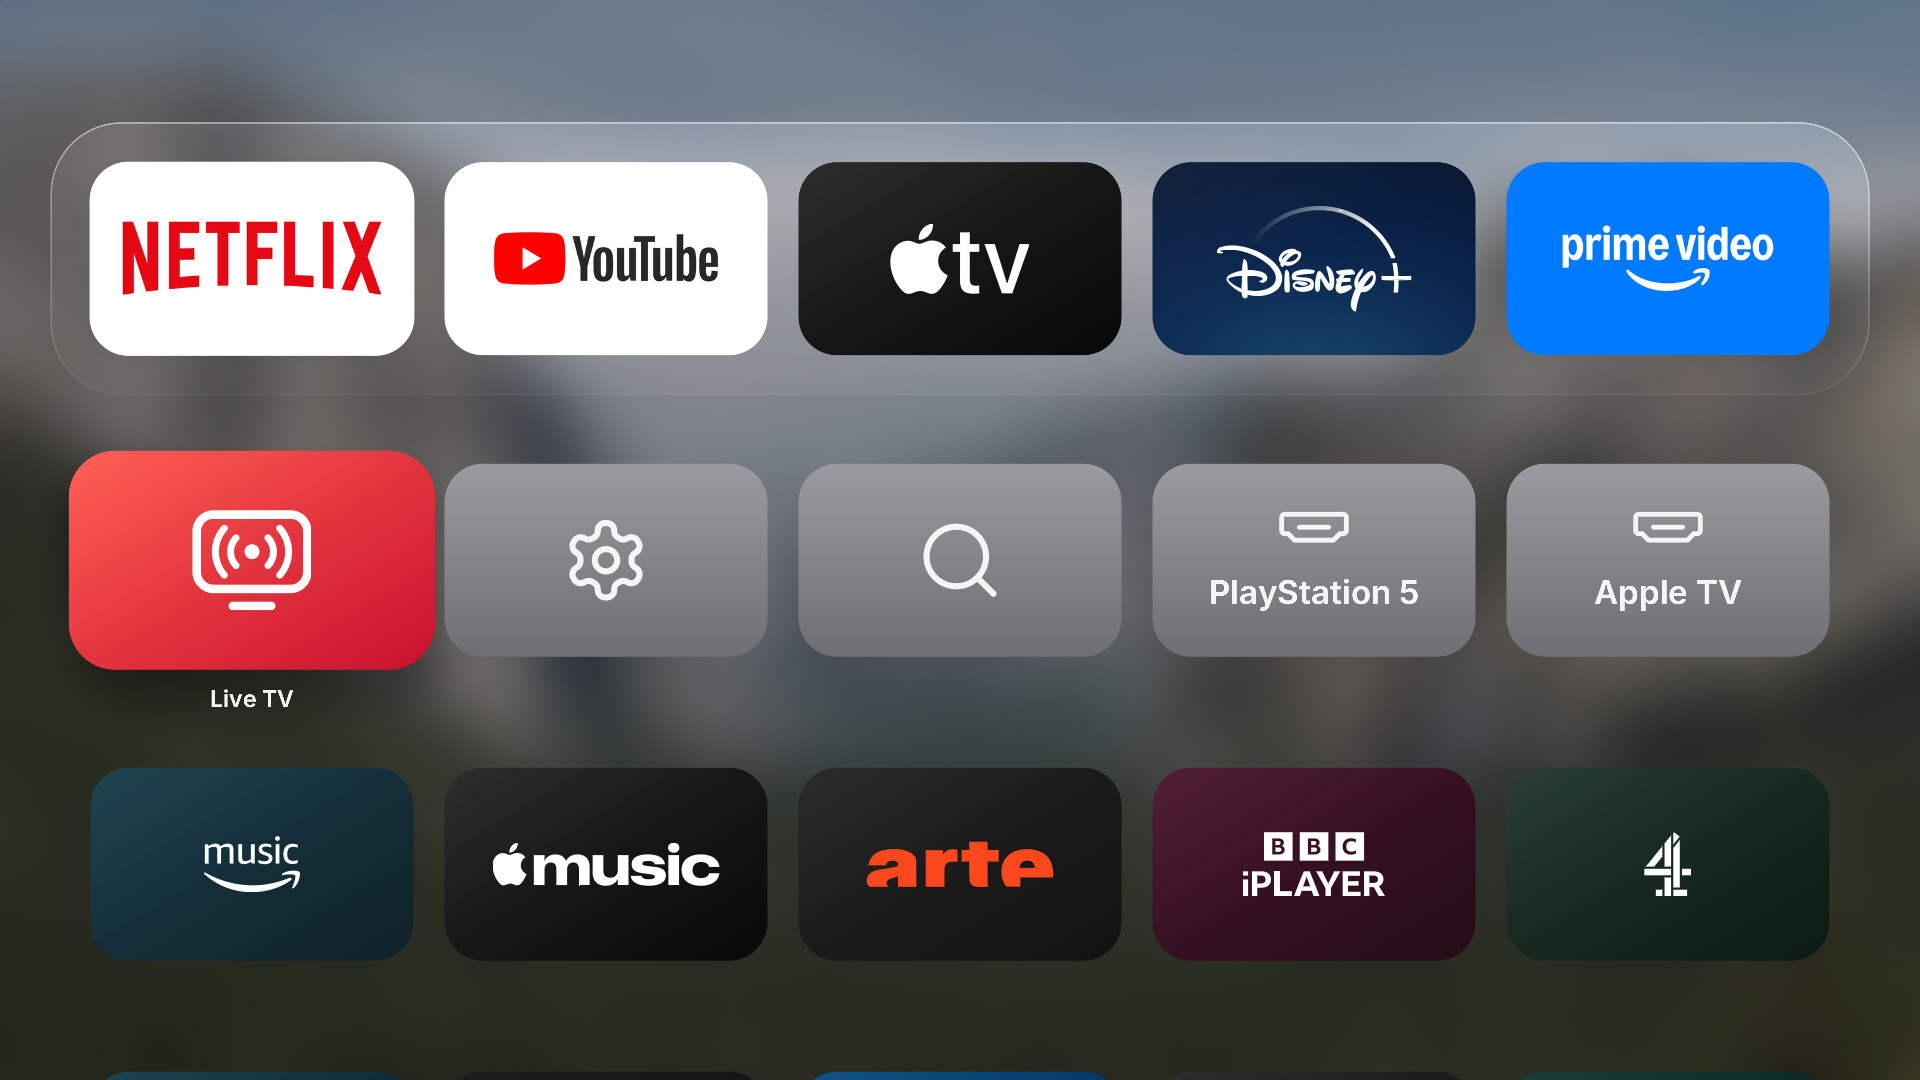
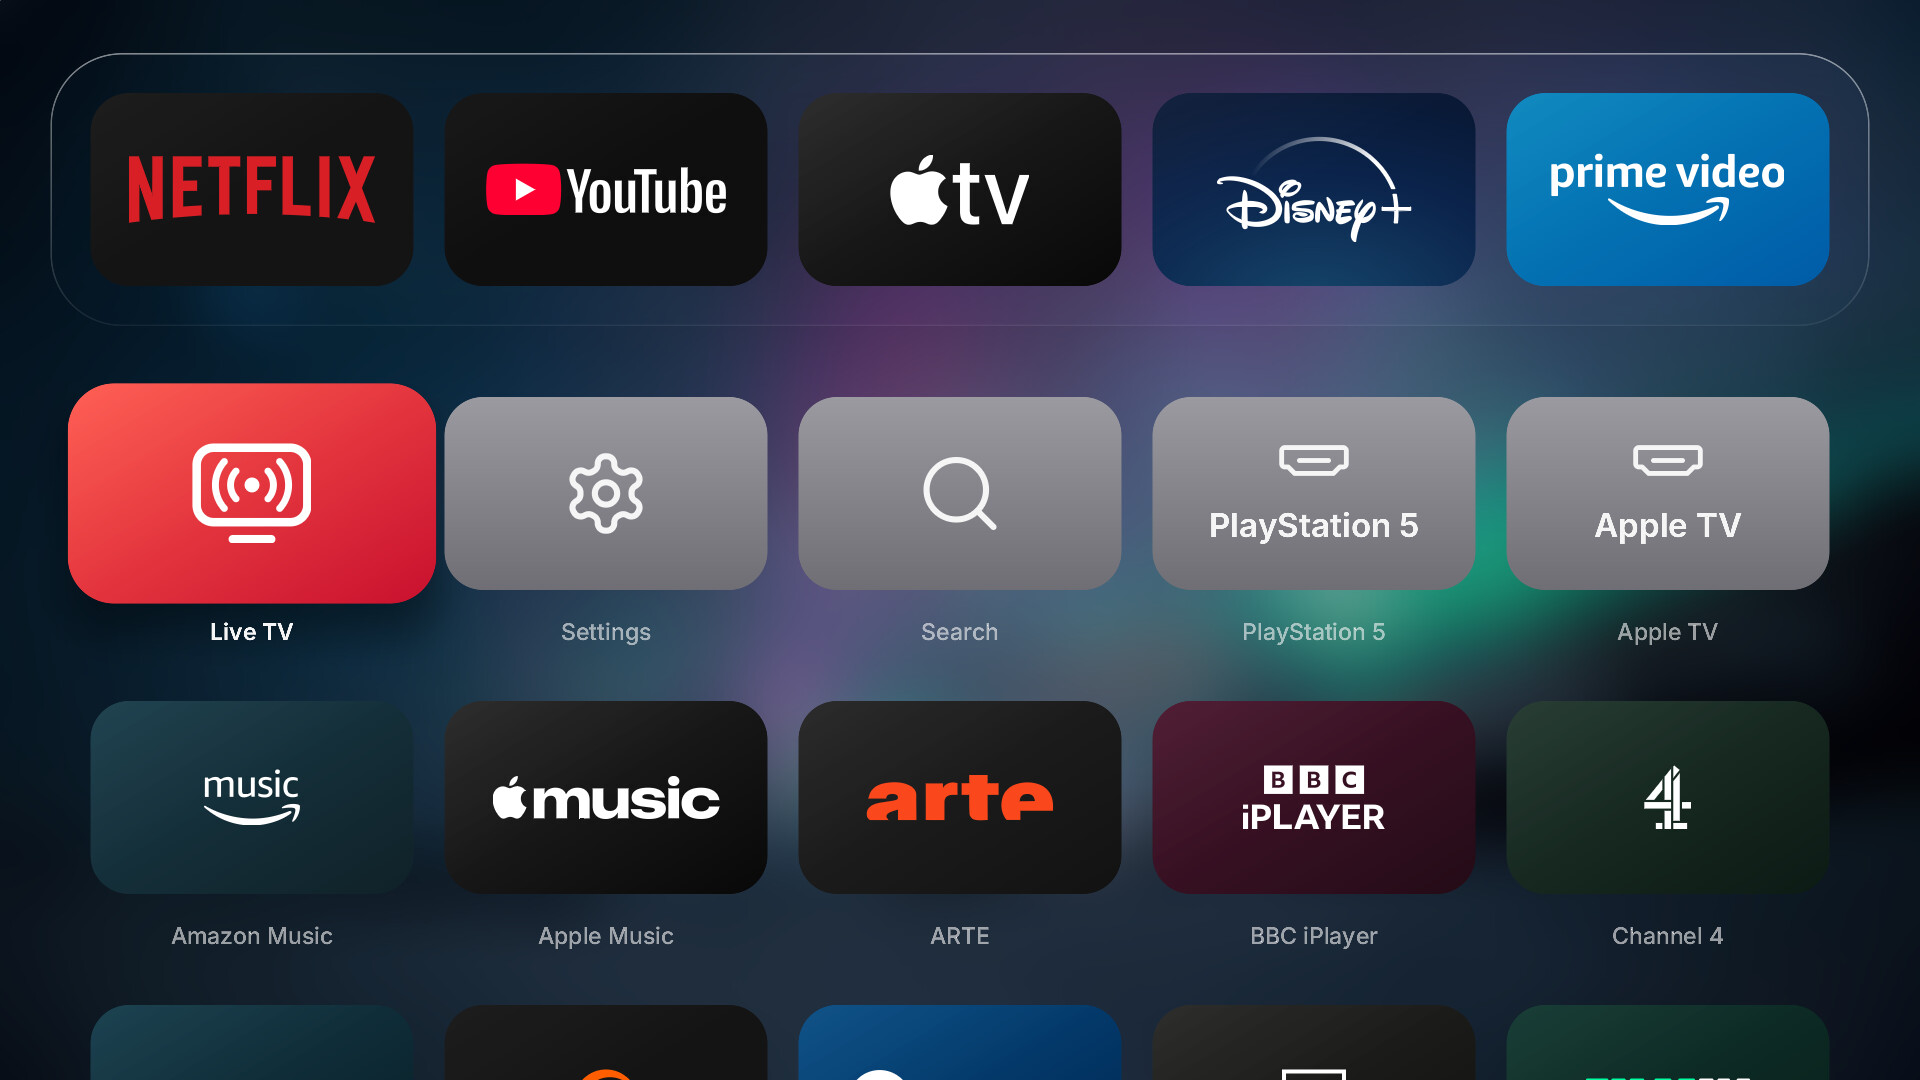
README: a tour of every screen on the northern lights, how Lounge differs, making it yours, use at your own risk

diff --git a/readme.md b/readme.md
@@ -12,16 +12,16 @@ Native, fast and quiet, so the only thing you notice is what you came to watch.
 [![webOS](https://img.shields.io/badge/LG%20webOS-7.6%20verified-1a1f45.svg)](#requirements)
 [![Rust](https://img.shields.io/badge/Rust-OpenGL%20ES-1a1f45.svg)](#how-it-works)
 
-[Features](#features) · [Install](#install) · [Make it your Home](#make-lounge-your-home) · [How it works](#how-it-works) · [Build](#build-it-yourself)
+[Features](#features) · [Tour](#a-tour) · [Why Lounge](#how-lounge-differs) · [Install](#install) · [Make it your Home](#make-lounge-your-home) · [Make it yours](#make-it-yours) · [Build](#build-it-yourself)
 
-<img src="docs/readme/home.jpg" alt="Lounge home screen: a glass dock of apps over a photo of Yosemite" width="100%">
+<img src="docs/readme/home.jpg" alt="Lounge home screen: a glass dock of apps over the northern lights" width="100%">
 
 </div>
 
 ## Features
 
-- **A real tvOS home.** A glass dock of favourites over full-screen Top Shelf art, an app grid
-  that slides up beneath it, and your HDMI inputs as tiles.
+- **A real tvOS home.** A glass dock of favourites over your wallpaper, an app grid that slides
+  up beneath it, and your HDMI inputs as tiles.
 - **Turns on into Lounge.** Power-on, the remote's Home key and backing out of an app all land on
   Lounge, with no LG Home in between.
 - **Smooth on modest hardware.** Built for a one-core TV GPU: it repaints only what changed and
@@ -29,25 +29,69 @@ Native, fast and quiet, so the only thing you notice is what you came to watch.
 - **Out of your apps' way.** Behind YouTube, Netflix or any other app it draws nothing and hands
   memory back, so the app you are watching keeps the TV to itself.
 - **Yours.** Light, Dark or Automatic appearance, nine wallpapers, a profile picture, hidden apps,
-  rearranging, and weather in the corner.
+  rearranging, and live weather in the corner.
+
+## A tour
 
 <table>
   <tr>
-    <td width="50%"><img src="docs/readme/apps.jpg" alt="App grid with Live TV, Settings, Search and HDMI inputs"></td>
-    <td width="50%"><img src="docs/readme/menu.jpg" alt="Holding OK on an app opens a glass menu to move or hide it"></td>
+    <td width="50%"><img src="docs/readme/apps.jpg" alt="The app grid with Live TV, Settings, Search and HDMI inputs"></td>
+    <td width="50%"><img src="docs/readme/switcher.jpg" alt="The app switcher: open apps as large cards"></td>
   </tr>
   <tr>
-    <td align="center"><sub>Every app and input, one press away</sub></td>
-    <td align="center"><sub>Hold OK to move or hide an app</sub></td>
+    <td align="center"><sub><b>Every app and input</b>, one press below the dock</sub></td>
+    <td align="center"><sub><b>The app switcher</b>: Back on Home shows what is open</sub></td>
   </tr>
   <tr>
-    <td width="50%"><img src="docs/readme/settings.jpg" alt="Settings: choosing a wallpaper"></td>
+    <td width="50%"><img src="docs/readme/menu.jpg" alt="Holding OK on an app opens a glass menu beside it"></td>
+    <td width="50%"><img src="docs/readme/move.jpg" alt="Moving an app along the dock"></td>
+  </tr>
+  <tr>
+    <td align="center"><sub><b>Hold OK</b> on an app to move or hide it</sub></td>
+    <td align="center"><sub><b>Move</b>: the app lifts and slides where you want it</sub></td>
+  </tr>
+  <tr>
+    <td width="50%"><img src="docs/readme/settings.jpg" alt="Settings, tinted by the wallpaper"></td>
+    <td width="50%"><img src="docs/readme/wallpapers.jpg" alt="Choosing a wallpaper"></td>
+  </tr>
+  <tr>
+    <td align="center"><sub><b>Settings</b>, tinted by your wallpaper</sub></td>
+    <td align="center"><sub><b>Nine wallpapers</b>, each with its own glass</sub></td>
+  </tr>
+  <tr>
+    <td width="50%"><img src="docs/readme/light-settings.jpg" alt="Settings in the Light appearance"></td>
+    <td width="50%"><img src="docs/readme/light-menu.jpg" alt="The app menu in the Light appearance"></td>
+  </tr>
+  <tr>
+    <td align="center"><sub><b>Light</b>, <b>Dark</b> or <b>Automatic</b> by time of day</sub></td>
+    <td align="center"><sub>Menus, banners and search follow the appearance</sub></td>
+  </tr>
+  <tr>
+    <td width="50%"><img src="docs/readme/search.jpg" alt="Search with a one-row keyboard"></td>
     <td width="50%" valign="middle">
-      <b>Screenshots</b> are the desktop preview, which renders exactly what the TV draws, with
-      sample apps.
+      <b>Search</b> finds any app as you type, on a one-row keyboard made for the remote.<br><br>
+      <sub>Screenshots are the desktop preview, which renders exactly what the TV draws, with
+      sample apps.</sub>
     </td>
   </tr>
 </table>
+
+## How Lounge differs
+
+Most home-screen replacements for LG TVs are web pages running in the TV's built-in browser.
+Lounge is a native program, and it takes over Home with webOS's own settings rather than scripts.
+
+|                      | **Lounge**                                                                                                         | Typical web-page launcher                                          |
+| -------------------- | ------------------------------------------------------------------------------------------------------------------ | ------------------------------------------------------------------ |
+| Runs as              | Native Rust + OpenGL ES, drawing straight to the screen                                                            | HTML/CSS in LG's browser engine                                    |
+| Start-up             | About half a second on a fresh TV                                                                                  | A browser page has to load first                                   |
+| Behind a playing app | Draws nothing, hands memory back                                                                                   | The page and its engine stay in memory                             |
+| Taking over Home     | LG's default-Home setting and a compositor key filter: no boot scripts of its own, nothing mounted over LG's files | Boot scripts, a mount over LG Home, or a watcher on another device |
+| Power-on             | Lands on Lounge, verified with power cycles                                                                        | Varies by launcher                                                 |
+| Look                 | tvOS: glass dock, focus lift, a context menu that keeps its app lit                                                | Varies                                                             |
+
+Lounge also keeps itself small on purpose: no screensaver, no video wallpapers, no extra
+services. The TV's memory belongs to what you are watching.
 
 ## Requirements
 
@@ -106,6 +150,25 @@ keys, sends every press straight to Lounge.
 `io.github.yashwanthkamireddi.lounge` to `KeepOnLaunchEx`, and taking `com.webos.app.home` out of it, keeps Lounge
 loaded behind apps while LG Home is freed when an app opens. Takes effect after a restart; keep a
 copy of the original file to undo.
+
+## Make it yours
+
+**Profile picture.** Lounge shows your LG account's initial in the time pill. To use a photo
+instead, copy JPEG or PNG files into Lounge's folder on the TV, then choose one in
+Settings › General › Profile picture (several can take turns):
+
+```sh
+D=/media/developer/io.github.yashwanthkamireddi.lounge
+mkdir -p $D/avatars && cp my-photo.jpg $D/avatars/
+chown -R --reference=$D $D/avatars    # Lounge must own its folder
+```
+
+Lounge reads the folder when it starts: quit it from Settings › General and open it again.
+
+**Top Shelf art.** Like tvOS, a picture can fill the screen behind the dock while an app is
+focused. LG apps do not provide one, so Lounge ships none: put your own 16:9 images in
+`local/heroes/`, named by app ID (`netflix.jpg`, `youtube.leanback.v4.jpg`), and build. The
+Top Shelf Art switch appears in Settings › General once any are present.
 
 ## How it works
 
@@ -192,6 +255,14 @@ Favorites, hidden apps, settings, weather location and cached readings stay in l
 in an app-owned persistent directory outside the installed payload.
 Weather search/forecast requests go to Open-Meteo, with embedded TLS roots and bounded responses.
 There is no browser geolocation, IP-based location lookup, telemetry or runtime font download.
+
+## Use at your own risk
+
+Lounge runs on rooted TVs and changes how they start and what the Home key opens. Every change
+is one setting that can be undone, and none touches LG's firmware or files, but rooting and
+modifying a TV is your decision and your responsibility. Lounge is provided as is, without
+warranty of any kind (see the [license](license)); its authors are not liable for any damage to
+your TV, loss of data, voided warranty or anything else that comes from installing or using it.
 
 ## Credits
 
